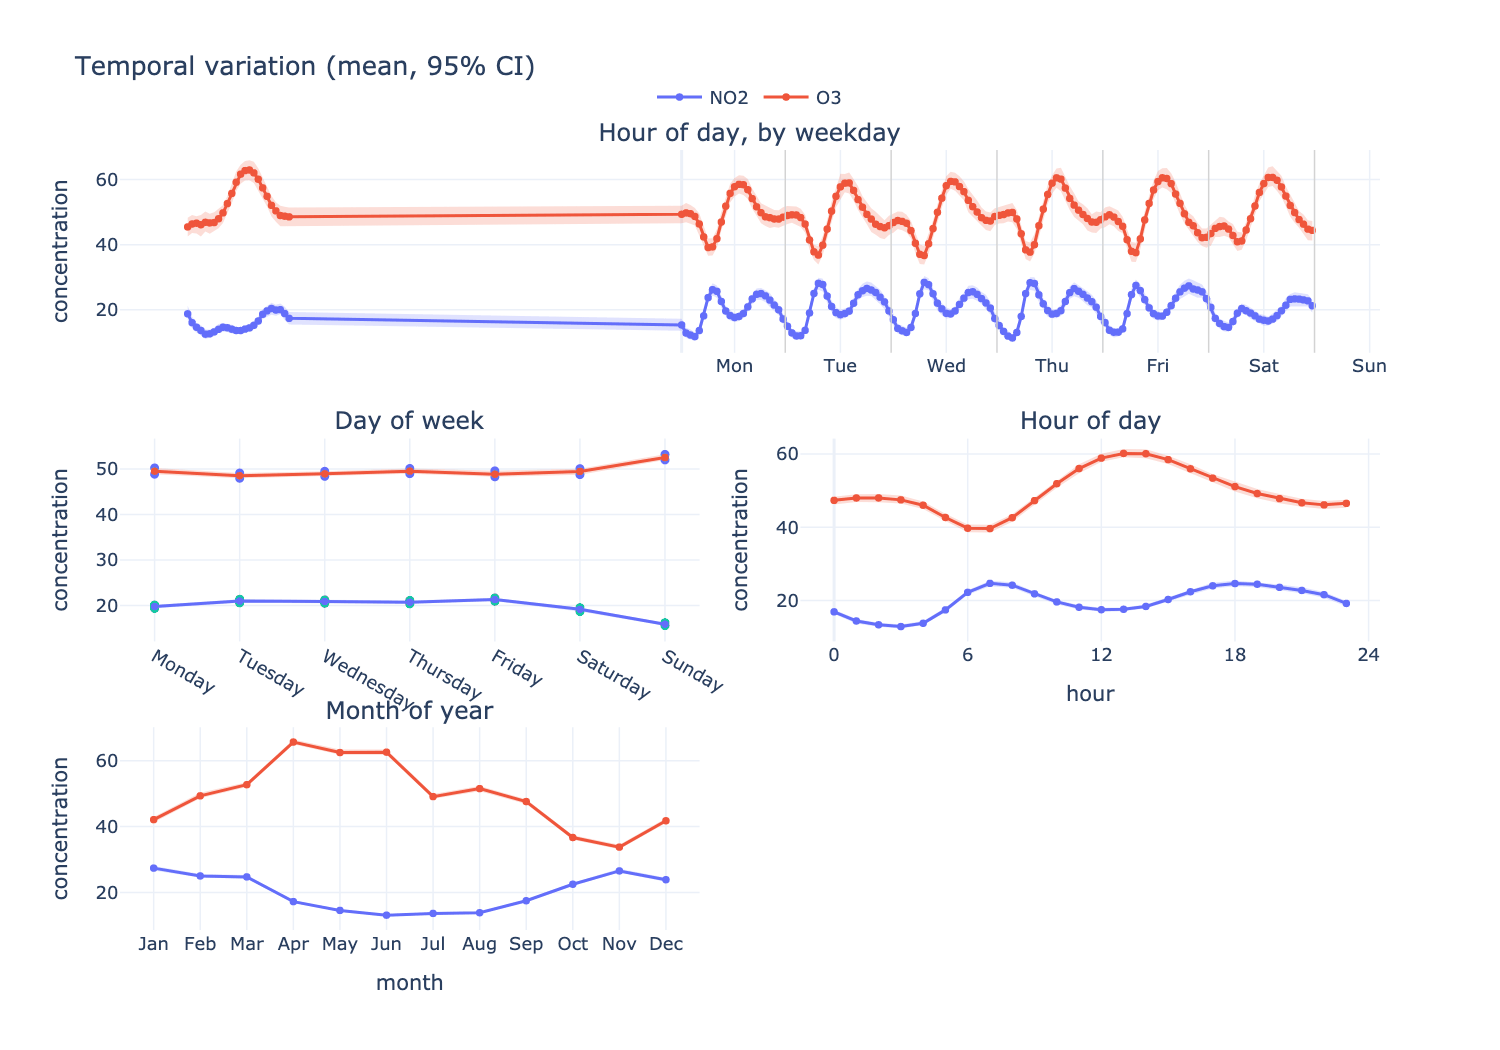
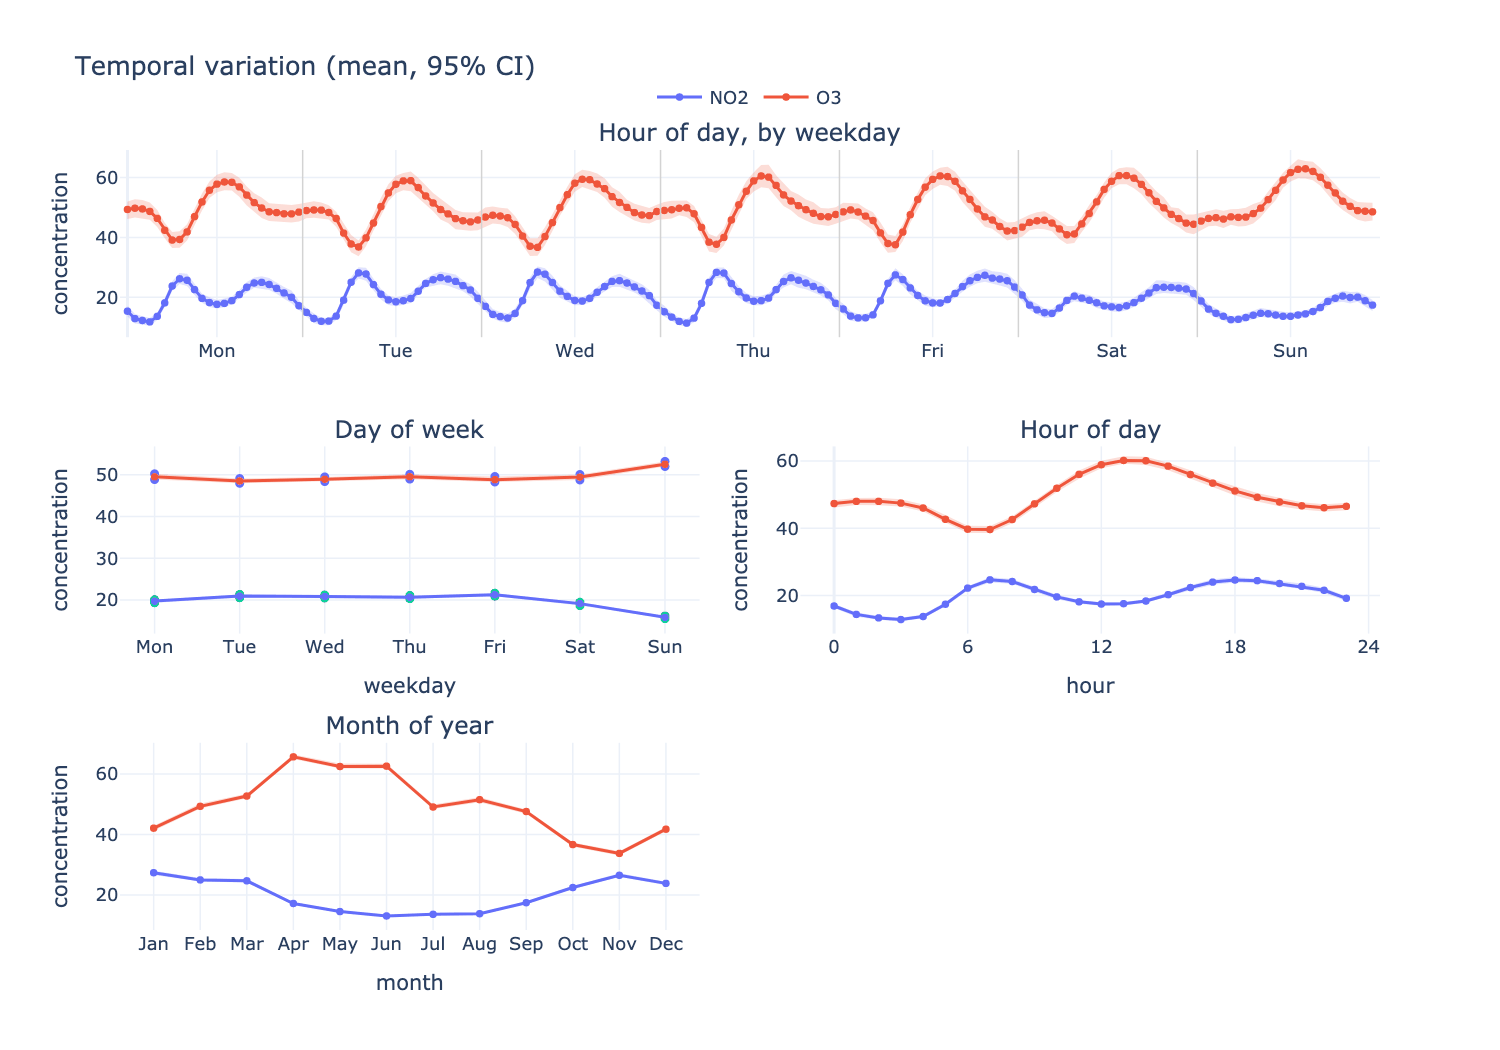
Fix int8 overflow that misplaced Sunday in time_variation (#6)
The hour-of-day-by-weekday panel lays the week out on a single axis running 0 to
167, computed as the weekday's categorical code times 24 plus the hour.
cat.codes is int8, so Sunday's code of 6 times 24 gives 144, past the 127 that
int8 holds, and it wrapped to -112. Sunday's block was drawn off the left-hand
end of the axis, a straight line bridged the empty span back to Monday, and
every weekday label sat against the wrong data.

Widen the codes to int64 before multiplying, and pin the axis range to the full
week so the absolutely positioned tick labels cannot drift away from the data if
a weekday is missing entirely.

Four regression tests, three of which fail against the unfixed code. The
strongest cross-checks each 24-hour block against the day-of-week panel, which
is computed independently, so it catches a wrong offset as well as a wrong
order.

Also abbreviate the weekday labels in the day-of-week panel, matching the panel
above and stopping the full names being rotated into the month panel beneath.
The returned summary keeps the full names.

Regenerating the figures showed map_sites.png changing when nothing about it
had, which contradicted the build script's claim that re-runs are byte
identical. Chart rendering is deterministic, but map_sites fetches its tiles
from a remote server and they come back subtly different each run. Correct the
claim, and only write a freshly rendered image when it differs from the one on
disk by more than a negligible amount.

diff --git a/examples/build_readme_figures.py b/examples/build_readme_figures.py
@@ -11,9 +11,11 @@ hand-drawn mock-ups. Re-run it after changing any plotting function:
 Data is cached under examples/output/cache/, shared with demo_leeds.py, so
 repeat runs do not re-download. Pass --refresh to force a re-download.
 
-Images are written at a fixed pixel size and rendered by kaleido, which is
-deterministic, so re-running without code changes produces byte-identical
-files and does not churn the git history.
+Chart rendering is deterministic, so re-running without code changes reproduces
+the same bytes. map_sites is the exception: it fetches map tiles from a remote
+server, and those come back subtly different each run, so its PNG would churn
+in git on every rebuild. To avoid that, a freshly rendered image is only written
+when it actually differs from the one on disk by more than a negligible amount.
 """
 
 from __future__ import annotations
@@ -80,7 +82,7 @@ def _rms_difference(a, b):
     return math.sqrt(sum(i * i * c for i, c in enumerate(histogram)) / total)
 
 
-def _shrink(path):
+def _shrink(png_bytes):
     """Re-encode a PNG as small as it will go without a visible change.
 
     Charts use few distinct colours, so an adaptive 256-colour palette is
@@ -92,7 +94,7 @@ def _shrink(path):
 
     from PIL import Image
 
-    original = Image.open(path).convert('RGB')
+    original = Image.open(io.BytesIO(png_bytes)).convert('RGB')
     lossless = io.BytesIO()
     original.save(lossless, 'PNG', optimize=True)
 
@@ -106,19 +108,50 @@ def _shrink(path):
         if buffer.tell() < best.tell():
             best, note = buffer, f'256 colours, rms {error:.2f}'
 
-    if best.tell() < path.stat().st_size:
-        path.write_bytes(best.getvalue())
-    return note
+    return (best.getvalue() if best.tell() < len(png_bytes) else png_bytes), note
+
+
+def _is_visually_unchanged(path, new_bytes, tolerance=1.0):
+    """True if `new_bytes` is indistinguishable from the PNG already at `path`.
+
+    map_sites re-fetches its map tiles on every run and comes back subtly
+    different each time. Rewriting it would churn a few hundred KB of binary in
+    git for no visible change, so an imperceptible difference counts as no
+    change at all.
+    """
+    import io
+
+    from PIL import Image
+
+    if not path.exists():
+        return False
+    try:
+        existing = Image.open(path)
+        candidate = Image.open(io.BytesIO(new_bytes))
+        if existing.size != candidate.size:
+            return False
+        return _rms_difference(existing, candidate) < tolerance
+    except Exception:
+        return False
 
 
 def save(fig, name: str, width: int = 900, height: int = 620,
          scale: float = SCALE) -> None:
-    """Render one figure to docs/images/<name>.png, then shrink it."""
+    """Render one figure, shrink it, and write it if it actually changed."""
     import plotly.io as pio
 
     path = IMAGE_DIR / f'{name}.png'
-    pio.write_image(fig, path, width=width, height=height, scale=scale)
-    note = _shrink(path)
+    rendered = pio.to_image(fig, format='png', width=width, height=height,
+                            scale=scale)
+    shrunk, note = _shrink(rendered)
+
+    if _is_visually_unchanged(path, shrunk):
+        size_kb = path.stat().st_size // 1024
+        _written.append((name, size_kb))
+        print(f'  {name + ".png":<26} {size_kb:>5} KB  unchanged, kept on disk')
+        return
+
+    path.write_bytes(shrunk)
     size_kb = path.stat().st_size // 1024
     _written.append((name, size_kb))
     print(f'  {name + ".png":<26} {size_kb:>5} KB  {note}')

diff --git a/PythonAQ/time_variation.py b/PythonAQ/time_variation.py
@@ -141,7 +141,7 @@ def time_variation(df, pollutant, date_col='date_time', statistic='mean',
         specs=[[{'colspan': 2}, None], [{}, {}], [{}, {}]],
         subplot_titles=('Hour of day, by weekday', 'Day of week',
                         'Hour of day', 'Month of year', ''),
-        vertical_spacing=0.11, horizontal_spacing=0.08,
+        vertical_spacing=0.14, horizontal_spacing=0.08,
     )
 
     records = []
@@ -149,9 +149,15 @@ def time_variation(df, pollutant, date_col='date_time', statistic='mean',
         colour = colours[i % len(colours)]
         subset = data.dropna(subset=[name])
 
-        # Panel 1: hour of day within each weekday, laid out as a single axis.
+        # Panel 1: hour of day within each weekday, laid out as a single axis
+        # running 0-167, so Monday 00:00 is 0 and Sunday 23:00 is 167.
+        #
+        # cat.codes is int8, and Sunday's code of 6 times 24 is 144, past the
+        # 127 that int8 holds. Left as int8 it wraps to -112, putting Sunday's
+        # block off the left-hand end of the axis. Widen before multiplying.
+        weekday_index = subset['weekday'].cat.codes.astype('int64')
         by_day_hour = _summarise(
-            subset.assign(_key=subset['weekday'].cat.codes * 24 + subset['hour']),
+            subset.assign(_key=weekday_index * 24 + subset['hour']),
             '_key', name, statistic, conf_int, n_boot, rng,
         )
         _add_series(fig, by_day_hour['_key'], by_day_hour, name, colour,
@@ -159,10 +165,12 @@ def time_variation(df, pollutant, date_col='date_time', statistic='mean',
         records.append(by_day_hour.assign(pollutant=name, panel='weekday.hour')
                        .rename(columns={'_key': 'x'}))
 
-        # Panel 2: day of week
+        # Panel 2: day of week. Abbreviated on the axis to match panel 1 above
+        # and to stop full names being rotated into the panel below; the
+        # returned summary keeps the full names.
         by_day = _summarise(subset, 'weekday', name, statistic, conf_int, n_boot, rng)
-        _add_series(fig, by_day['weekday'].astype(str), by_day, name, colour,
-                    2, 1, ci, showlegend=False)
+        _add_series(fig, [str(d)[:3] for d in by_day['weekday']], by_day, name,
+                    colour, 2, 1, ci, showlegend=False)
         records.append(by_day.assign(pollutant=name, panel='weekday')
                        .rename(columns={'weekday': 'x'}))
 
@@ -181,16 +189,20 @@ def time_variation(df, pollutant, date_col='date_time', statistic='mean',
                        .rename(columns={'month': 'x'}))
 
     # Label panel 1 with weekday names at the midpoint of each 24-hour block.
+    # The range is pinned to the full week so the labels stay aligned with the
+    # data even if a weekday is entirely missing from the input.
     fig.update_xaxes(
         tickmode='array',
         tickvals=[day * 24 + 12 for day in range(7)],
         ticktext=[d[:3] for d in _WEEKDAY_ORDER],
+        range=[-1, 168],
         row=1, col=1,
     )
     for day in range(1, 7):
         fig.add_vline(x=day * 24 - 0.5, line=dict(color='lightgrey', width=1),
                       row=1, col=1)
 
+    fig.update_xaxes(title_text='weekday', row=2, col=1)
     fig.update_xaxes(title_text='hour', row=2, col=2, dtick=6)
     fig.update_xaxes(title_text='month', row=3, col=1)
     axis_title = 'normalised level' if normalise else 'concentration'

diff --git a/tests/test_openair_plots.py b/tests/test_openair_plots.py
@@ -58,6 +58,47 @@ class TestTimeVariation:
         assert weekday['Saturday'] < weekday['Wednesday'] - 5
         assert weekday['Sunday'] < weekday['Wednesday'] - 5
 
+    def test_weekday_hour_panel_spans_exactly_one_week(self, structured_df):
+        """Regression: cat.codes is int8, so Sunday's 6 * 24 = 144 overflowed
+        to -112 and its block landed off the left-hand end of the axis."""
+        _, summary = time_variation(structured_df, 'NO2', random_state=0)
+        x = sorted(summary[summary['panel'] == 'weekday.hour']['x'].astype(int))
+        assert x == list(range(168)), 'panel must run 0-167 with no gaps'
+
+    def test_weekday_hour_blocks_line_up_with_the_weekday_panel(self, structured_df):
+        """Each 24-hour block must be the weekday its axis label claims.
+
+        Cross-checked against the independently computed day-of-week panel, so
+        this catches a wrong offset as well as a wrong order.
+        """
+        _, summary = time_variation(structured_df, 'NO2', random_state=0)
+        blocks = summary[summary['panel'] == 'weekday.hour'].set_index('x')['value']
+        by_day = summary[summary['panel'] == 'weekday'].set_index('x')['value']
+
+        weekdays = ['Monday', 'Tuesday', 'Wednesday', 'Thursday', 'Friday',
+                    'Saturday', 'Sunday']
+        for index, day in enumerate(weekdays):
+            block_mean = blocks.loc[index * 24:index * 24 + 23].mean()
+            assert block_mean == pytest.approx(by_day[day], abs=0.5), day
+
+    def test_weekday_hour_axis_is_pinned_to_the_full_week(self, structured_df):
+        """The tick labels are positioned absolutely, so the range must be too,
+        or a missing weekday would shift the data out from under its label."""
+        fig, _ = time_variation(structured_df, 'NO2', random_state=0)
+        assert list(fig.layout.xaxis.range) == [-1, 168]
+        assert list(fig.layout.xaxis.tickvals) == [d * 24 + 12 for d in range(7)]
+
+    def test_a_missing_weekday_does_not_shift_the_others(self, structured_df):
+        """Dropping Wednesday must leave every other day where it was."""
+        without_wednesday = structured_df[
+            structured_df['date_time'].dt.day_name() != 'Wednesday'
+        ]
+        _, summary = time_variation(without_wednesday, 'NO2', random_state=0)
+        x = set(summary[summary['panel'] == 'weekday.hour']['x'].astype(int))
+        assert not (x & set(range(48, 72))), 'Wednesday block should be empty'
+        assert set(range(0, 24)) <= x, 'Monday should still be at 0-23'
+        assert set(range(144, 168)) <= x, 'Sunday should still be at 144-167'
+
     def test_confidence_interval_brackets_the_estimate(self, structured_df):
         _, summary = time_variation(structured_df, 'NO2', random_state=0)
         valid = summary.dropna(subset=['lower', 'upper'])
